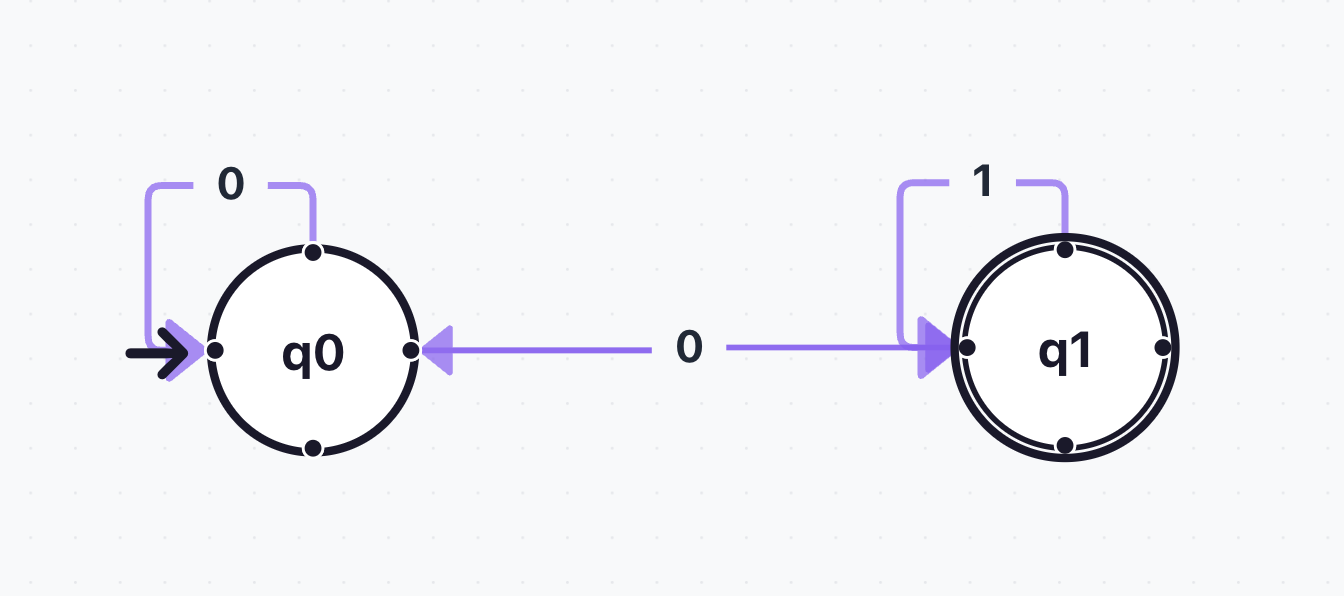
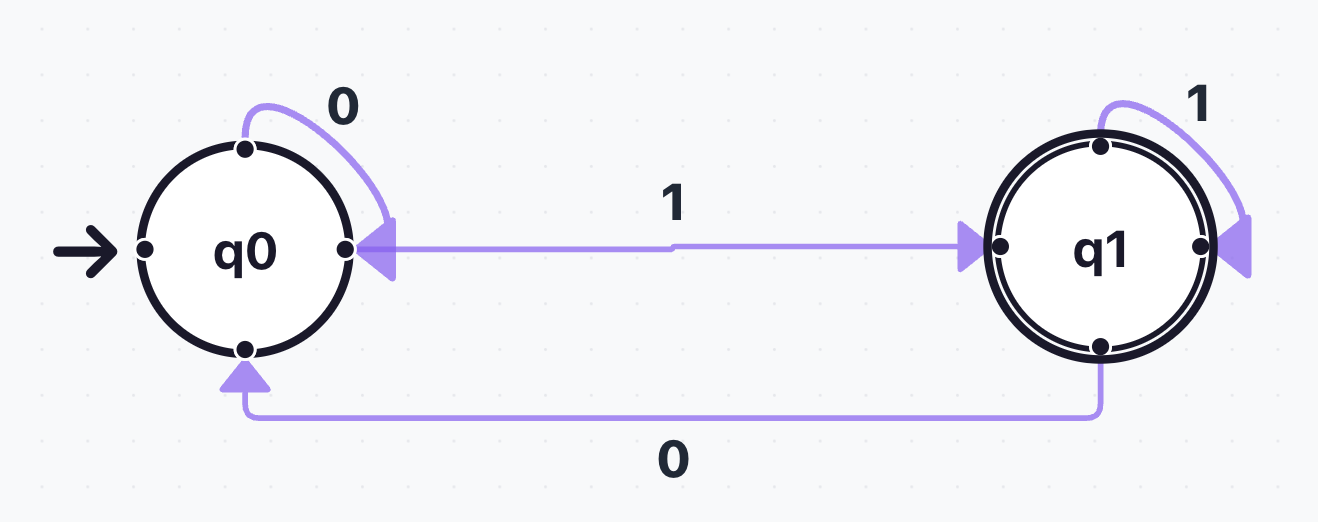
updated image reads

Changed region(s): [[0.0311, 0.1533, 0.9643, 0.9195], [0.4977, 0.3372, 0.5288, 0.4291], [0.8399, 0.1839, 0.871, 0.2146]]

diff --git a/automata/frontend/src/components/Tutorial_components/tutorialData/dfaTutorial.js b/automata/frontend/src/components/Tutorial_components/tutorialData/dfaTutorial.js
@@ -52,16 +52,7 @@ States: Q = {q₀, q₁}`,
                     example: {
                         description: 'Visual structure and execution trace',
                         visual: require('./Images/dfa_ending_with_1.png'),
-                        code: `Visual Diagram:
-
-      (q₀) --0--> (q₀)
-       |           
-       +-----1------> ((q₁))  ← Accept state (double circle)
-                      |
-                      +--1--> ((q₁))
-                      |
-                      +--0--> (q₀)
-
+                        code: `
 Tracing execution on input "001":
 Input: "001"
 
@@ -98,11 +89,10 @@ Format:
 • Rows: States
 • Columns: Input symbols
 • Cell (q, a): The state δ(q, a) you transition to
-• Notation: → marks start state, * marks accept states
-
-Example: Same DFA (strings ending in '1')
-
-╔═══════╦═════════╦═════════╗
+• Notation: → marks start state, * marks accept states`,
+                    example: {
+                        description: 'Same DFA (strings ending in \'1\') as a transition table',
+                        code: `╔═══════╦═════════╦═════════╗
 ║ State ║ Input 0 ║ Input 1 ║
 ╠═══════╬═════════╬═════════╣
 ║ → q₀  ║   q₀    ║   q₁    ║
@@ -113,7 +103,8 @@ Reading the table:
 • From q₀ on input '0': stay at q₀
 • From q₀ on input '1': go to q₁
 • From q₁ on input '0': go to q₀
-• From q₁ on input '1': stay at q₁`,
+• From q₁ on input '1': stay at q₁`
+                    },
                     keyPoints: [
                         'Transition tables are compact and unambiguous',
                         'Easy to implement in code (2D array or map)',
@@ -133,42 +124,31 @@ Reading the table:
 
 This means:
 • Accept: "", "1", "111", "00", "1010", "0011"
-• Reject: "0", "10", "010", "000"
+• Reject: "0", "10", "011", "000"
 
 Key insight: We need to track whether we've seen an even or odd number of 0s. This suggests TWO states.
 
 States:
-• qₑᵥₑₙ: Seen an even number of 0s (start state, since 0 is even)
-• qₒdd: Seen an odd number of 0s
+• q_{even}: Seen an even number of 0s (start state, since 0 is even)
+• q_{odd}: Seen an odd number of 0s
 
-Which is accept state? Since we want even 0s: F = {qₑᵥₑₙ}
+Which is accept state? Since we want even 0s: F = {q_{even}}
 
 Transitions:
-• δ(qₑᵥₑₙ, 0) = qₒdd  (0 flips even → odd)
-• δ(qₑᵥₑₙ, 1) = qₑᵥₑₙ (1 doesn't change parity)
-• δ(qₒdd, 0) = qₑᵥₑₙ  (0 flips odd → even)
-• δ(qₒdd, 1) = qₒdd   (1 doesn't change parity)`,
+• δ(q_{even}, 0) = q_{odd}  (0 flips even → odd)
+• δ(q_{even}, 1) = q_{even} (1 doesn't change parity)
+• δ(q_{odd}, 0) = q_{even}  (0 flips odd → even)
+• δ(q_{odd}, 1) = q_{odd}   (1 doesn't change parity)`,
                     example: {
                         description: 'State diagram',
                         visual: require('./Images/dfa_even_zeros.png'),
-                        code: `        ┌────────┐
-        │        │ 1 (loop)
-        ▼        │
-  ─→ ((qₑᵥₑₙ))  │     (double circle = accept)
-        │        │
-        │ 0      │
-        ▼        │
-      (qₒdd) ────┘
-        │  1 (loop)
-        │
-        └──0──→ back to qₑᵥₑₙ
-
+                        code: `
 Transition Table:
 ╔═══════════╦═════════╦═════════╗
 ║   State   ║ Input 0 ║ Input 1 ║
 ╠═══════════╬═════════╬═════════╣
-║ →*qₑᵥₑₙ   ║  qₒdd   ║  qₑᵥₑₙ  ║
-║  qₒdd     ║  qₑᵥₑₙ  ║  qₒdd   ║
+║ →*q_{even}║ q_{odd} ║ q_{even}║
+║  q_{odd}  ║ q_{even}║ q_{odd} ║
 ╚═══════════╩═════════╩═════════╝`
                     },
                     keyPoints: [
@@ -360,35 +340,181 @@ Furthermore, if L is regular, the minimum number of states in any DFA for L equa
                     ]
                 },
                 {
-                    title: 'Proving Languages Non-Regular',
+                    title: 'Proving Languages Non-Regular (Myhill-Nerode)',
                     content: `The Myhill-Nerode theorem gives us a powerful technique to prove languages are NOT regular.
 
-Strategy: Show that L has infinitely many distinguishable strings.
+Strategy: Show that L has infinitely many pairwise distinguishable strings.
 
-Example: Prove L = {0ⁿ1ⁿ | n ≥ 0} is not regular.
+Definition: Strings x, y ∈ Σ* are distinguishable with respect to L if there exists z ∈ Σ* such that exactly one of xz, yz is in L.
+
+Theorem Application: If L has infinitely many pairwise distinguishable strings, then L requires infinitely many states, so L is not regular.`,
+                    example: {
+                        description: 'Rigorous proof that L = {0ⁿ1ⁿ | n ≥ 0} is not regular',
+                        code: `Theorem: L = {0ⁿ1ⁿ | n ≥ 0} is not regular.
 
 Proof:
-Consider the strings 0⁰, 0¹, 0², 0³, ...
-Claim: These are all pairwise distinguishable.
+Let S = {0ⁿ | n ∈ ℕ} = {ε, 0, 0², 0³, 0⁴, ...}
 
-Take any i ≠ j. Let z = 1ⁱ.
-Then 0ⁱz = 0ⁱ1ⁱ ∈ L
-But 0ʲz = 0ʲ1ⁱ ∉ L (since i ≠ j)
+Claim: All strings in S are pairwise distinguishable with respect to L.
 
-So 0ⁱ and 0ʲ are distinguishable.
-Since there are infinitely many such strings, L has infinitely many equivalence classes.
-By Myhill-Nerode, L is not regular. ∎`,
+Proof of Claim:
+Let i, j ∈ ℕ with i ≠ j. We show that 0ⁱ and 0ʲ are distinguishable.
+
+Consider the distinguishing suffix z = 1ⁱ.
+
+Case 1: 0ⁱ · z = 0ⁱ1ⁱ
+   By definition of L, 0ⁱ1ⁱ ∈ L (equal number of 0s and 1s)
+
+Case 2: 0ʲ · z = 0ʲ1ⁱ  
+   Since i ≠ j, we have j ≠ i
+   Therefore 0ʲ1ⁱ has j zeros and i ones (j ≠ i)
+   By definition of L, 0ʲ1ⁱ ∉ L
+
+Since 0ⁱ1ⁱ ∈ L but 0ʲ1ⁱ ∉ L, the strings 0ⁱ and 0ʲ are distinguishable.
+
+Since i and j were arbitrary distinct natural numbers, all pairs in S are distinguishable.
+
+Conclusion:
+S is an infinite set of pairwise distinguishable strings.
+By Myhill-Nerode theorem, L has infinitely many equivalence classes.
+Therefore, no DFA with finitely many states can recognize L.
+Hence, L is not regular. ∎`
+                    },
                     keyPoints: [
-                        'This is MORE POWERFUL than the pumping lemma',
-                        'Find an infinite set of pairwise distinguishable strings',
-                        'Common pattern: use strings like 0ⁿ or aⁿ',
-                        'The distinguishing suffix often relates to the language structure'
+                        'Must prove ALL pairs are distinguishable (not just one pair)',
+                        'The distinguishing suffix z depends on the string (here z = 1ⁱ)',
+                        'This is more elegant than the pumping lemma',
+                        'The number of equivalence classes = minimum number of states needed'
                     ],
                     tips: [
-                        'Always start with "Consider the infinite set S = ..."',
-                        'Show all pairs in S are distinguishable (usually with a formula)',
-                        'Common distinguishing suffixes: 1ⁿ for 0ⁿ, bⁿ for aⁿ, etc.',
-                        'This technique works when pumping lemma is difficult to apply'
+                        'Start by clearly defining the infinite set S',
+                        'Take arbitrary i ≠ j and show 0ⁱ ≢ₗ 0ʲ',
+                        'Common pattern: For 0ⁿ1ⁿ use S = {0ⁿ} with z = 1ⁿ',
+                        'Be explicit about why xz ∈ L but yz ∉ L (or vice versa)'
+                    ]
+                },
+                {
+                    title: 'The Pumping Lemma for Regular Languages',
+                    content: `The Pumping Lemma is a necessary condition for regularity. It's useful for proving languages are NOT regular.
+
+Statement: If L is a regular language, then there exists a constant p (the "pumping length") such that:
+
+For every string w ∈ L with |w| ≥ p, there exists a decomposition w = xyz satisfying:
+1. |xy| ≤ p  (y occurs within first p symbols)
+2. |y| ≥ 1   (y is non-empty)
+3. For all i ≥ 0: xyⁱz ∈ L  (we can "pump" y any number of times)
+
+Intuition: In a DFA with p states, any string of length ≥ p must revisit some state. The substring y corresponds to the loop.
+
+Contrapositive: To prove L is NOT regular:
+Assume L is regular with pumping length p.
+Find a string w ∈ L with |w| ≥ p.
+Show that for EVERY decomposition w = xyz satisfying (1) and (2),
+there exists i ≥ 0 such that xyⁱz ∉ L.
+This contradicts the pumping lemma, so L cannot be regular.`,
+                    keyPoints: [
+                        'The pumping lemma is a NECESSARY condition (not sufficient)',
+                        'To prove non-regularity, we must show NO valid decomposition exists',
+                        'The adversary chooses p, then the decomposition xyz',
+                        'You only choose w and the value of i that breaks the lemma'
+                    ],
+                    tips: [
+                        'Choose w carefully - usually w depends on p',
+                        'Remember: you don\'t control where y is placed',
+                        'Consider all possible positions of y (within first p symbols)',
+                        'Often i=0 or i=2 is enough to show violation'
+                    ]
+                },
+                {
+                    title: 'Pumping Lemma: Rigorous Proof Example',
+                    content: `Let's prove L = {0ⁿ1ⁿ | n ≥ 0} is not regular using the pumping lemma.`,
+                    example: {
+                        description: 'Complete formal proof using pumping lemma',
+                        code: `Theorem: L = {0ⁿ1ⁿ | n ≥ 0} is not regular.
+
+Proof by Contradiction:
+Assume, for the sake of contradiction, that L is regular.
+Then by the Pumping Lemma, there exists p ≥ 1 (the pumping length).
+
+Choose w = 0ᵖ1ᵖ.
+Note that:
+  • w ∈ L (by definition, equal 0s and 1s)
+  • |w| = 2p ≥ p (satisfies length requirement)
+
+By the Pumping Lemma, w can be decomposed as w = xyz where:
+  (1) |xy| ≤ p
+  (2) |y| ≥ 1
+  (3) ∀i ≥ 0: xyⁱz ∈ L
+
+Analysis of decomposition:
+Since |xy| ≤ p and w = 0ᵖ1ᵖ, the substring xy consists entirely of 0s.
+(The first p symbols of w are all 0s)
+
+Therefore:
+  • x = 0ᵃ for some a ≥ 0
+  • y = 0ᵇ for some b ≥ 1  (from condition 2)
+  • z = 0ᶜ1ᵖ where a + b + c = p
+
+Consider i = 2 (pumping up):
+xy²z = x · y · y · z
+     = 0ᵃ · 0ᵇ · 0ᵇ · 0ᶜ1ᵖ
+     = 0ᵃ⁺²ᵇ⁺ᶜ1ᵖ
+     = 0ᵖ⁺ᵇ1ᵖ
+
+Count the symbols:
+  • Number of 0s: p + b
+  • Number of 1s: p
+  • Since b ≥ 1, we have p + b > p
+
+Therefore xy²z has MORE 0s than 1s, so xy²z ∉ L.
+
+This contradicts condition (3) of the Pumping Lemma.
+Therefore, our assumption was wrong, and L is not regular. ∎`
+                    },
+                    keyPoints: [
+                        'We chose w = 0ᵖ1ᵖ to force y to be all 0s',
+                        'Used i=2 to pump up and create imbalance',
+                        'Could also use i=0 to pump down: xy⁰z = xz = 0ᵖ⁻ᵇ1ᵖ ∉ L',
+                        'The key is that ANY decomposition satisfying (1) and (2) fails (3)'
+                    ],
+                    tips: [
+                        'For 0ⁿ1ⁿ: choose w = 0ᵖ1ᵖ',
+                        'For aⁿbⁿ: similar strategy with w = aᵖbᵖ',
+                        'For palindromes: choose w that breaks symmetry when pumped',
+                        'For primes: choose w = 0ᵖ where p is prime, pump to composite'
+                    ]
+                },
+                {
+                    title: 'Myhill-Nerode vs Pumping Lemma',
+                    content: `Both techniques prove non-regularity, but they have different strengths.
+
+Pumping Lemma:
+• More widely known and taught
+• Works well for "counting" languages (0ⁿ1ⁿ)
+• Requires choosing specific string and pumping position
+• Sometimes difficult to handle all possible decompositions
+
+Myhill-Nerode Theorem:
+• More powerful and general
+• Gives exact characterization of regular languages
+• Often cleaner and more elegant proofs
+• Directly connects to DFA state minimization
+• Works well when distinguishing suffixes are clear
+
+When to use which:
+• Pumping Lemma: Good for sequences with counting (aⁿbⁿ, 0ⁿ1ⁿ)
+• Myhill-Nerode: Better for languages with complex structure
+• Both can prove the same results, but one may be easier
+
+Example where Myhill-Nerode is cleaner:
+L = {w ∈ {0,1}* | w has equal 0s and 1s}
+Myhill-Nerode: Use S = {0ⁿ | n ≥ 0}, distinguish with 1ⁿ
+Pumping Lemma: Must carefully handle all possible y positions`,
+                    keyPoints: [
+                        'Myhill-Nerode gives the MINIMUM state count',
+                        'Pumping Lemma only proves non-regularity',
+                        'Myhill-Nerode can be used to minimize DFAs',
+                        'Both are important tools in formal language theory'
                     ]
                 },
                 {
